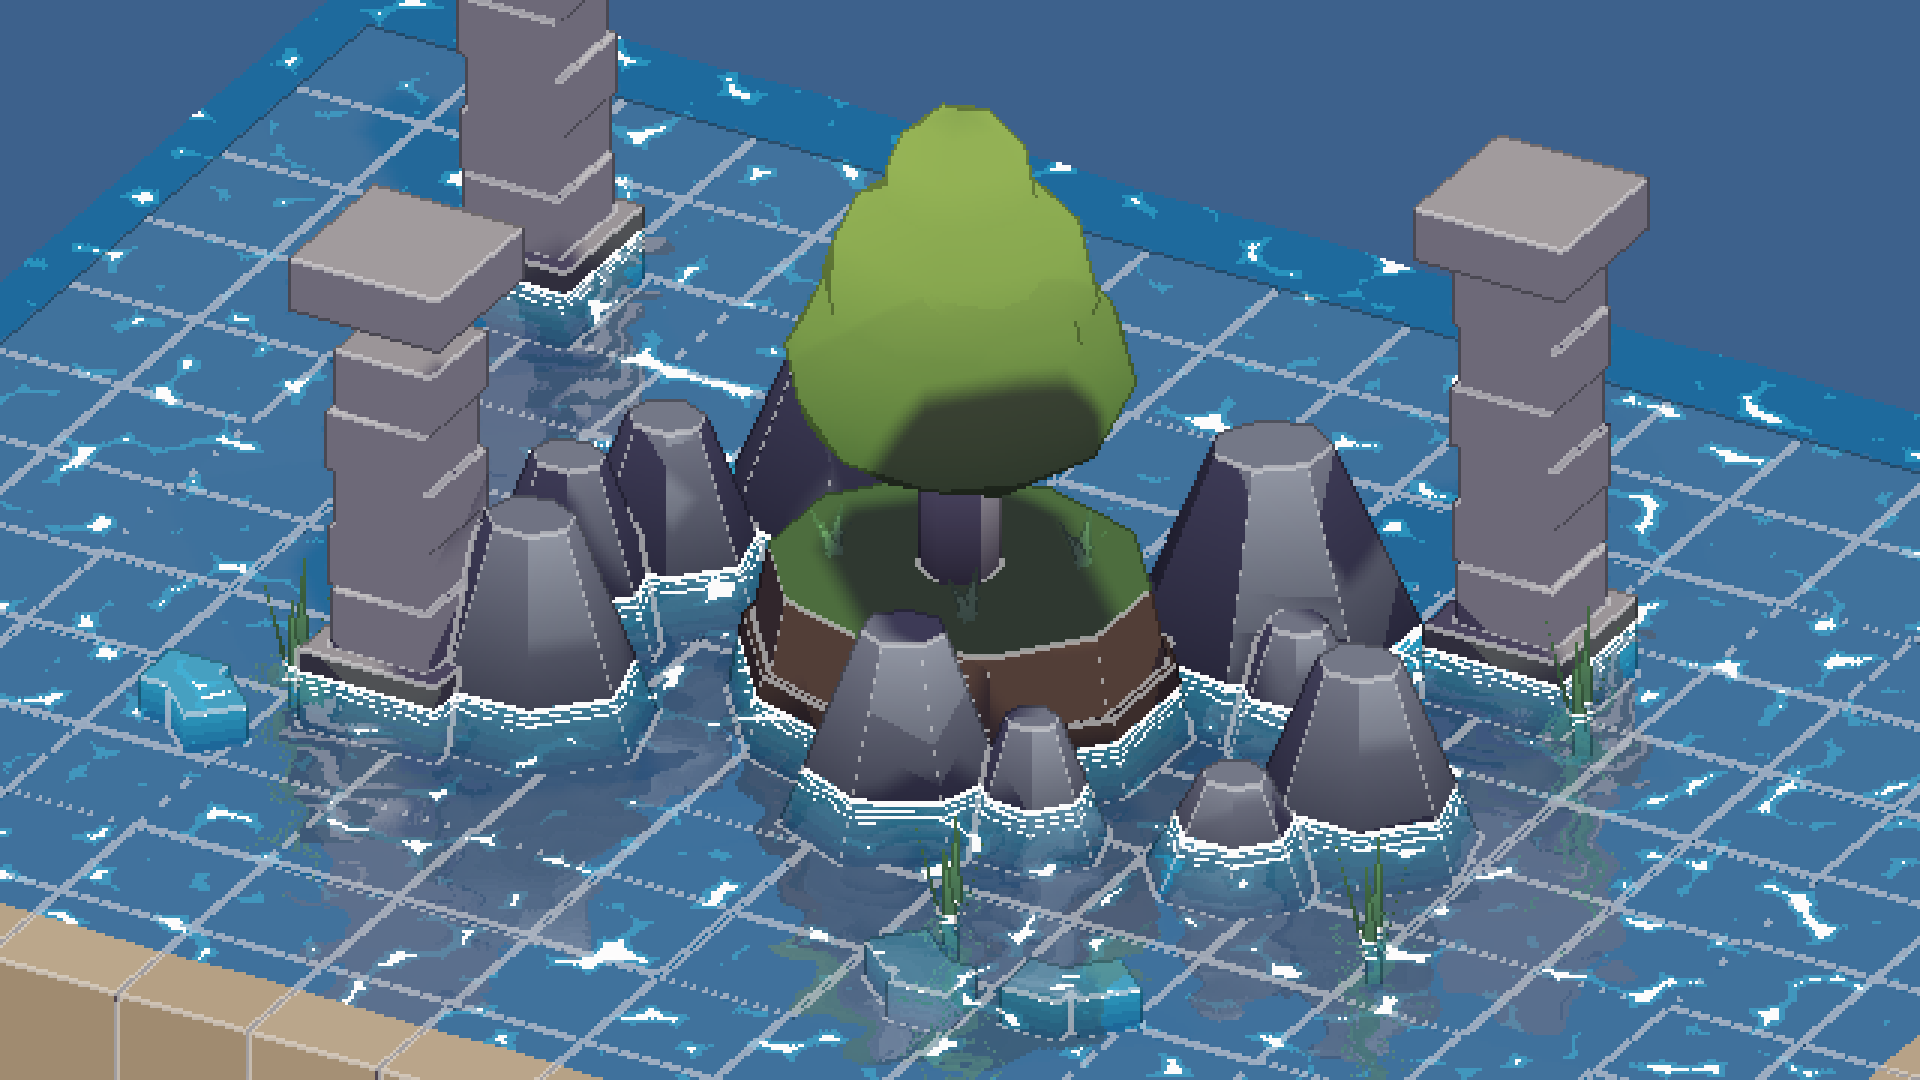
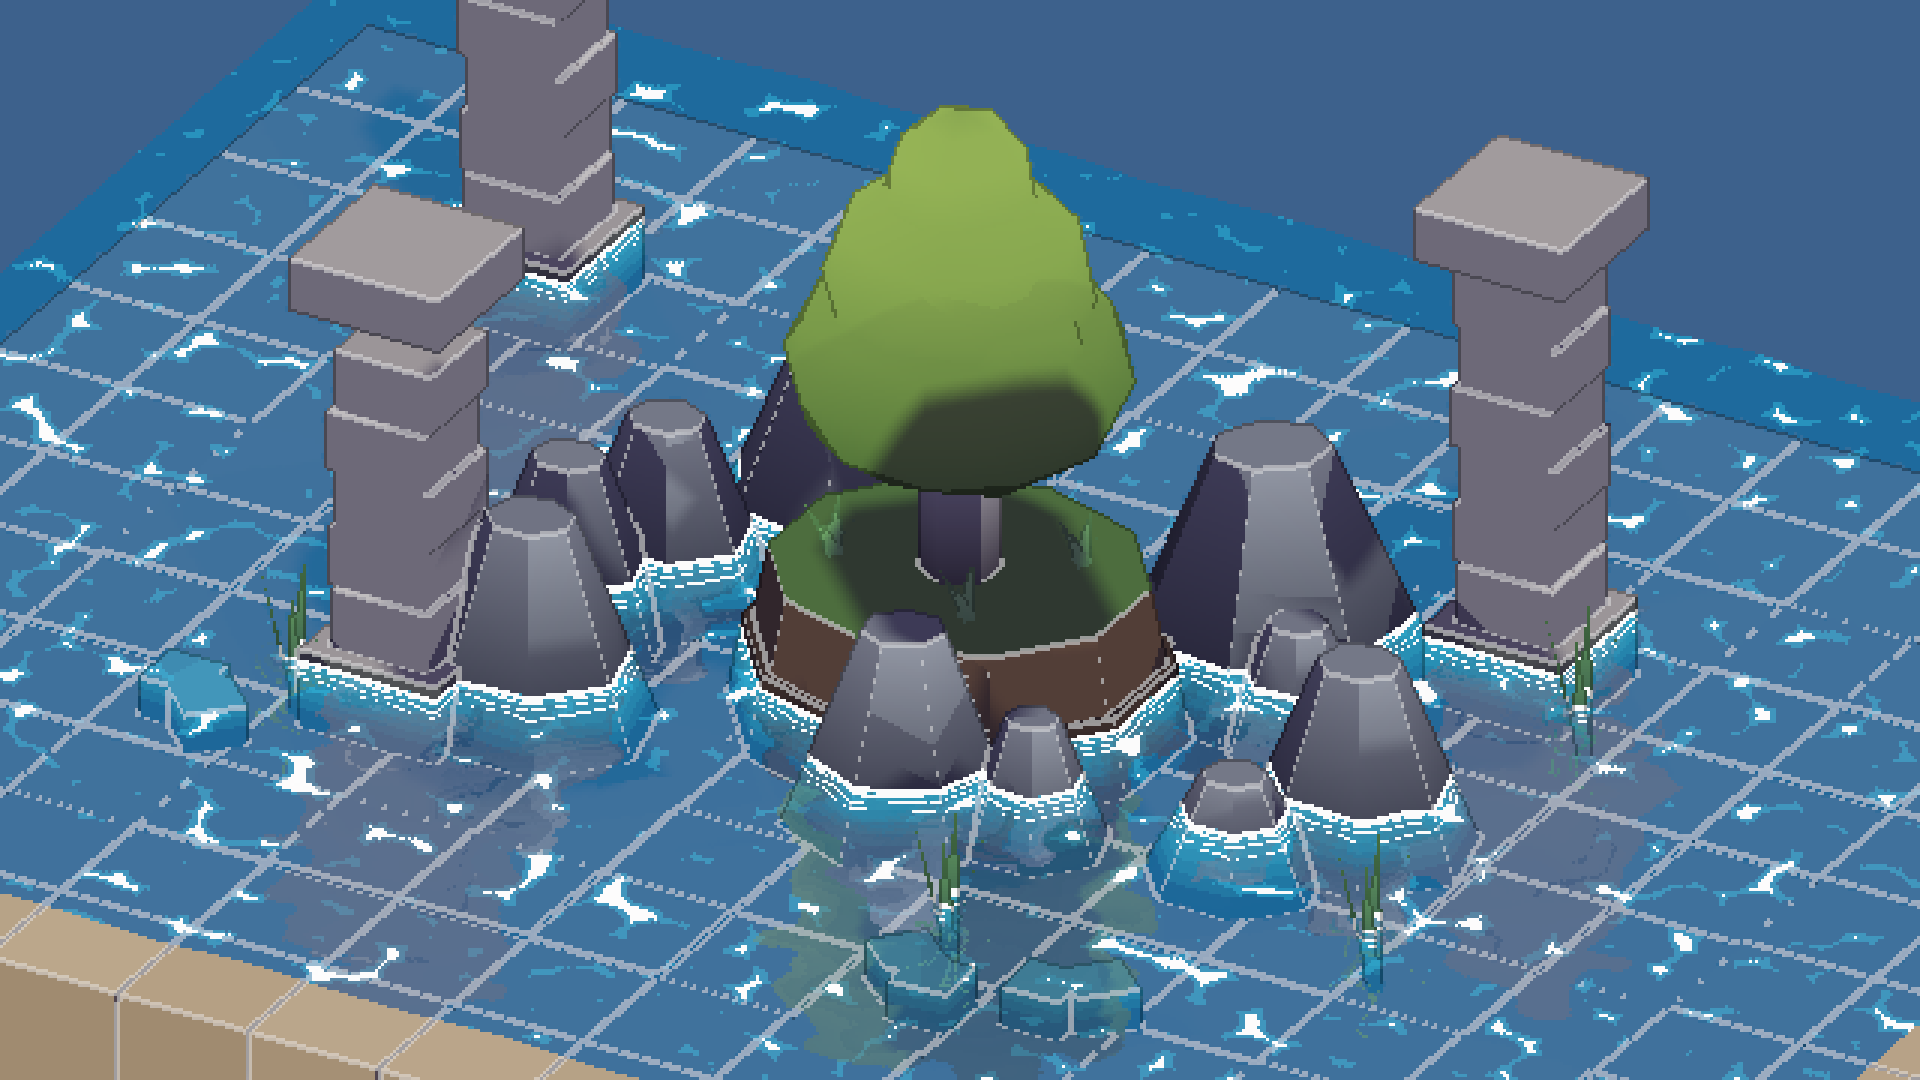
fix(water): calibrar escala e alcance do reflexo estritamente proporcional a altura exposta do objeto

diff --git a/.agents/rules/regras_de_agua_ondulacoes_e_reflexos_espelhados_blender_mcp_godot.md b/.agents/rules/regras_de_agua_ondulacoes_e_reflexos_espelhados_blender_mcp_godot.md
@@ -23,7 +23,11 @@ Em jogos 3D Pixel Art (estilo David Holland), shaders de água realistas com gra
      vec2 screen_up_per_meter = (clip_up.xy / clip_up.w) * 0.5 + 0.5 - ((clip_curr.xy / clip_curr.w) * 0.5 + 0.5);
      ```
      Ao girar o `CameraPivot` em torno do eixo Y em 360°, o reflexo na água gira junto na órbita do objeto, mantendo-se sempre alinhado verticalmente na tela logo abaixo de cada elemento.
-   * **Corte por Nível da Água (`sample_world_pos.y > water_y + 0.03`)**: Apenas a geometria física que estiver *acima* do nível atual da água (maré) é refletida. Se a água subir, o reflexo encurta; se baixar, mais do objeto aparece refletido.
+   * **Escala Física e Alcance do Reflexo por Altura Exposta (`obj_h = sample_world_pos.y - water_y`)**:
+     * O ponto de observação e corte dos reflexos é a própria lâmina da água: o tamanho do reflexo é estritamente proporcional à altura que o elemento físico se projeta acima da água.
+     * **Regra de Alcance Físico Máximo**: Um objeto com altura exposta `obj_h` não pode projetar reflexo na água além de `h > obj_h * 2.2 + 0.15`.
+     * **Pedras Pequenas e Maré Dinâmica**: Se a maré sobe e deixa apenas uma ponta de 5 a 15cm da pedra para fora d'água, seu reflexo será minúsculo e contido no perímetro imediato da rocha (sem reflexos desproporcionais balão). Conforme a maré desce e revela mais da pedra, o reflexo cresce de forma contínua e natural.
+     * **Estruturas Altas**: Colunas e árvores de 3m a 5m mantêm reflexos longos e imponentes estendendo-se pela água.
    * **Posicionamento na SUPERFÍCIE da Água (Não no Leito)**:
      O reflexo pertence à lâmina externa da água (Fresnel de superfície) e DEVE ser composto **SOBRE o leito de areia/rochas e SOBRE as cáusticas**. As cáusticas iluminam o fundo submerso; o reflexo situa-se na superfície, cobrindo o leito onde o reflexo é nítido.
    * **Variação Dinâmica com o Movimento da Água**:
@@ -123,9 +127,9 @@ def create_water_tile_1x1m(name="Water_Channel_Tile", flow_dir=(1.0, 0.0), has_r
 
 ---
 
-## 4. Shader de Água com Reflexo Planar Óptico na Superfície, Ondulações e Espuma (`pixel_water.gdshader`)
+## 4. Shader de Água com Reflexo Planar Óptico na Superfície, Escala por Altura e Ondulações (`pixel_water.gdshader`)
 
-Aplique este shader na malha `WaterSurface_Mesh` no Godot 4. Ele executa todas as técnicas avançadas de reflexão de superfície: calcula a projeção orbital 360° no espaço de tela ancorada à câmera, corta geometrias abaixo do nível da água, posiciona o reflexo **na superfície da água cobrindo o leito**, varia dinamicamente com o movimento das ondas em pixel art quantizado e gera anéis concêntricos de espuma em tempo real!
+Aplique este shader na malha `WaterSurface_Mesh` no Godot 4. Ele executa todas as técnicas avançadas de reflexão: projeção orbital 360° no espaço de tela ancorada à câmera, escala rigorosa do alcance do reflexo pela altura do objeto exposto acima da água (proibindo reflexos desproporcionais em pedras pequenas), corte de geometria submersa, reflexo na superfície cobrindo o leito e variação dinâmica com ondas quantizadas:
 
 ```glsl
 shader_type spatial;
@@ -134,6 +138,7 @@ render_mode unshaded, cull_disabled, depth_draw_always;
 // Shader de Água HD Pixel Art 3D com Lei da Reflexão Planar Óptica de Superfície (David Holland Architecture)
 // Suporta reflexos Screen-Space ancorados que orbitam em 360° com a câmera (Y-Up),
 // corte físico por nível de água (Y > water_y), reflexo situado NA SUPERFÍCIE DA ÁGUA (sobre o leito e cáusticas),
+// escala rigorosa do tamanho do reflexo pela altura do objeto exposto acima da água (pedras pequenas = reflexos curtos),
 // variação dinâmica viva com o movimento e ondulações da superfície, e anéis de espuma de profundidade linear.
 
 uniform sampler2D screen_texture : hint_screen_texture, repeat_disable, filter_nearest;
@@ -240,8 +245,7 @@ void fragment() {
 		float caustic_band = step(0.72, v_wave);
 		float specular_glint = step(specular_glint_threshold, v_wave);
 		
-		// 4. Reflexo Planar Óptico na SUPERFÍCIE com Variação Dinâmica de Movimento
-		// Vetor de subida de 1m no eixo vertical (Y-Up) projetado no espaço de tela (SCREEN_UV)
+		// 4. Reflexo Planar Óptico na SUPERFÍCIE com Escala Proporcional à Altura Exposta
 		vec4 clip_curr = PROJECTION_MATRIX * VIEW_MATRIX * vec4(v_world_pos, 1.0);
 		vec4 clip_up = PROJECTION_MATRIX * VIEW_MATRIX * vec4(v_world_pos + vec3(0.0, 1.0, 0.0), 1.0);
 		vec2 uv_curr = (clip_curr.xy / clip_curr.w) * 0.5 + 0.5;
@@ -263,9 +267,11 @@ void fragment() {
 		vec3 reflected_scene = vec3(0.0);
 		float reflection_weight = 0.0;
 		
-		// Marcha em 20 passos de 0.22m (alcance de até 4.4m acima do nível da água)
-		for (int step_idx = 1; step_idx <= 20; step_idx++) {
-			float h = float(step_idx) * 0.22;
+		// Marcha progressiva em 24 passos: granularidade fina perto da superfície (~0.07m) para capturar
+		// pedras rasas, expandindo suavemente até 4.8m para refletir árvores e colunas altas
+		for (int step_idx = 1; step_idx <= 24; step_idx++) {
+			float t = float(step_idx) / 24.0;
+			float h = t * t * 3.2 + t * 1.6;
 			vec2 sample_uv = SCREEN_UV + screen_up_per_meter * h + pixel_wave_distortion;
 			
 			if (sample_uv.x < 0.005 || sample_uv.x > 0.995 || sample_uv.y < 0.005 || sample_uv.y > 0.995) {
@@ -278,19 +284,35 @@ void fragment() {
 			sample_view.xyz /= sample_view.w;
 			vec3 sample_world_pos = (INV_VIEW_MATRIX * vec4(sample_view.xyz, 1.0)).xyz;
 			
-			// Condição de Espelho Real de Superfície:
-			// 1. O ponto amostrado está ACIMA da água: sample_world_pos.y > v_world_pos.y + 0.03
-			// 2. A altura real do objeto intercepta o raio óptico com modulação pela onda da superfície
-			// 3. O ponto está mais ao fundo no view space que o fragmento da água
+			// Altura real da geometria física acima da superfície da água
 			float obj_h = sample_world_pos.y - v_world_pos.y;
-			float wave_h_mod = wave_curr * wave_height * 3.5;
+			
+			// Descarta pontos submersos
+			if (obj_h <= 0.02) {
+				continue;
+			}
+			
+			// REGRA ÓPTICA DE ALCANCE POR ALTURA EXPOSTA:
+			// O alcance do reflexo na superfície da água é rigorosamente limitado pela altura do objeto exposto acima da água.
+			// Objetos menores (ex: pontas de pedras de 0.05m a 0.15m) não projetam reflexos além de sua silhueta física.
+			if (h > obj_h * 2.2 + 0.15) {
+				continue;
+			}
+			
+			// Tolerância proporcional à altura exposta (evita reflexos desproporcionais em objetos baixos)
+			float max_tol = max(0.045, obj_h * 0.35);
+			float wave_h_mod = wave_curr * wave_height * 2.5;
 			float expected_h = h * 0.5 + wave_h_mod;
 			
-			if (obj_h > 0.03 && abs(obj_h - expected_h) < 0.55 && sample_view.z < VERTEX.z + 0.25) {
+			if (abs(obj_h - expected_h) < max_tol && sample_view.z < VERTEX.z + 0.25) {
 				reflected_scene = texture(screen_texture, sample_uv).rgb;
-				float falloff = 1.0 - (float(step_idx) / 20.0) * 0.25;
-				reflection_weight = clamp(reflection_strength * 1.65 * falloff, 0.0, 0.82);
-				break; // Interrompe no primeiro hit para impedir duplicação / espelho infinito
+				
+				// Intensidade proporcional: pontas de pedra têm reflexos suaves e contidos na sua borda;
+				// estruturas altas têm reflexos ricos e dominantes
+				float height_scale = clamp(obj_h / 0.35, 0.30, 1.0);
+				float falloff = 1.0 - t * 0.30;
+				reflection_weight = clamp(reflection_strength * 1.65 * falloff * height_scale, 0.0, 0.82);
+				break; // Interrompe no primeiro hit válido
 			}
 		}
 		
